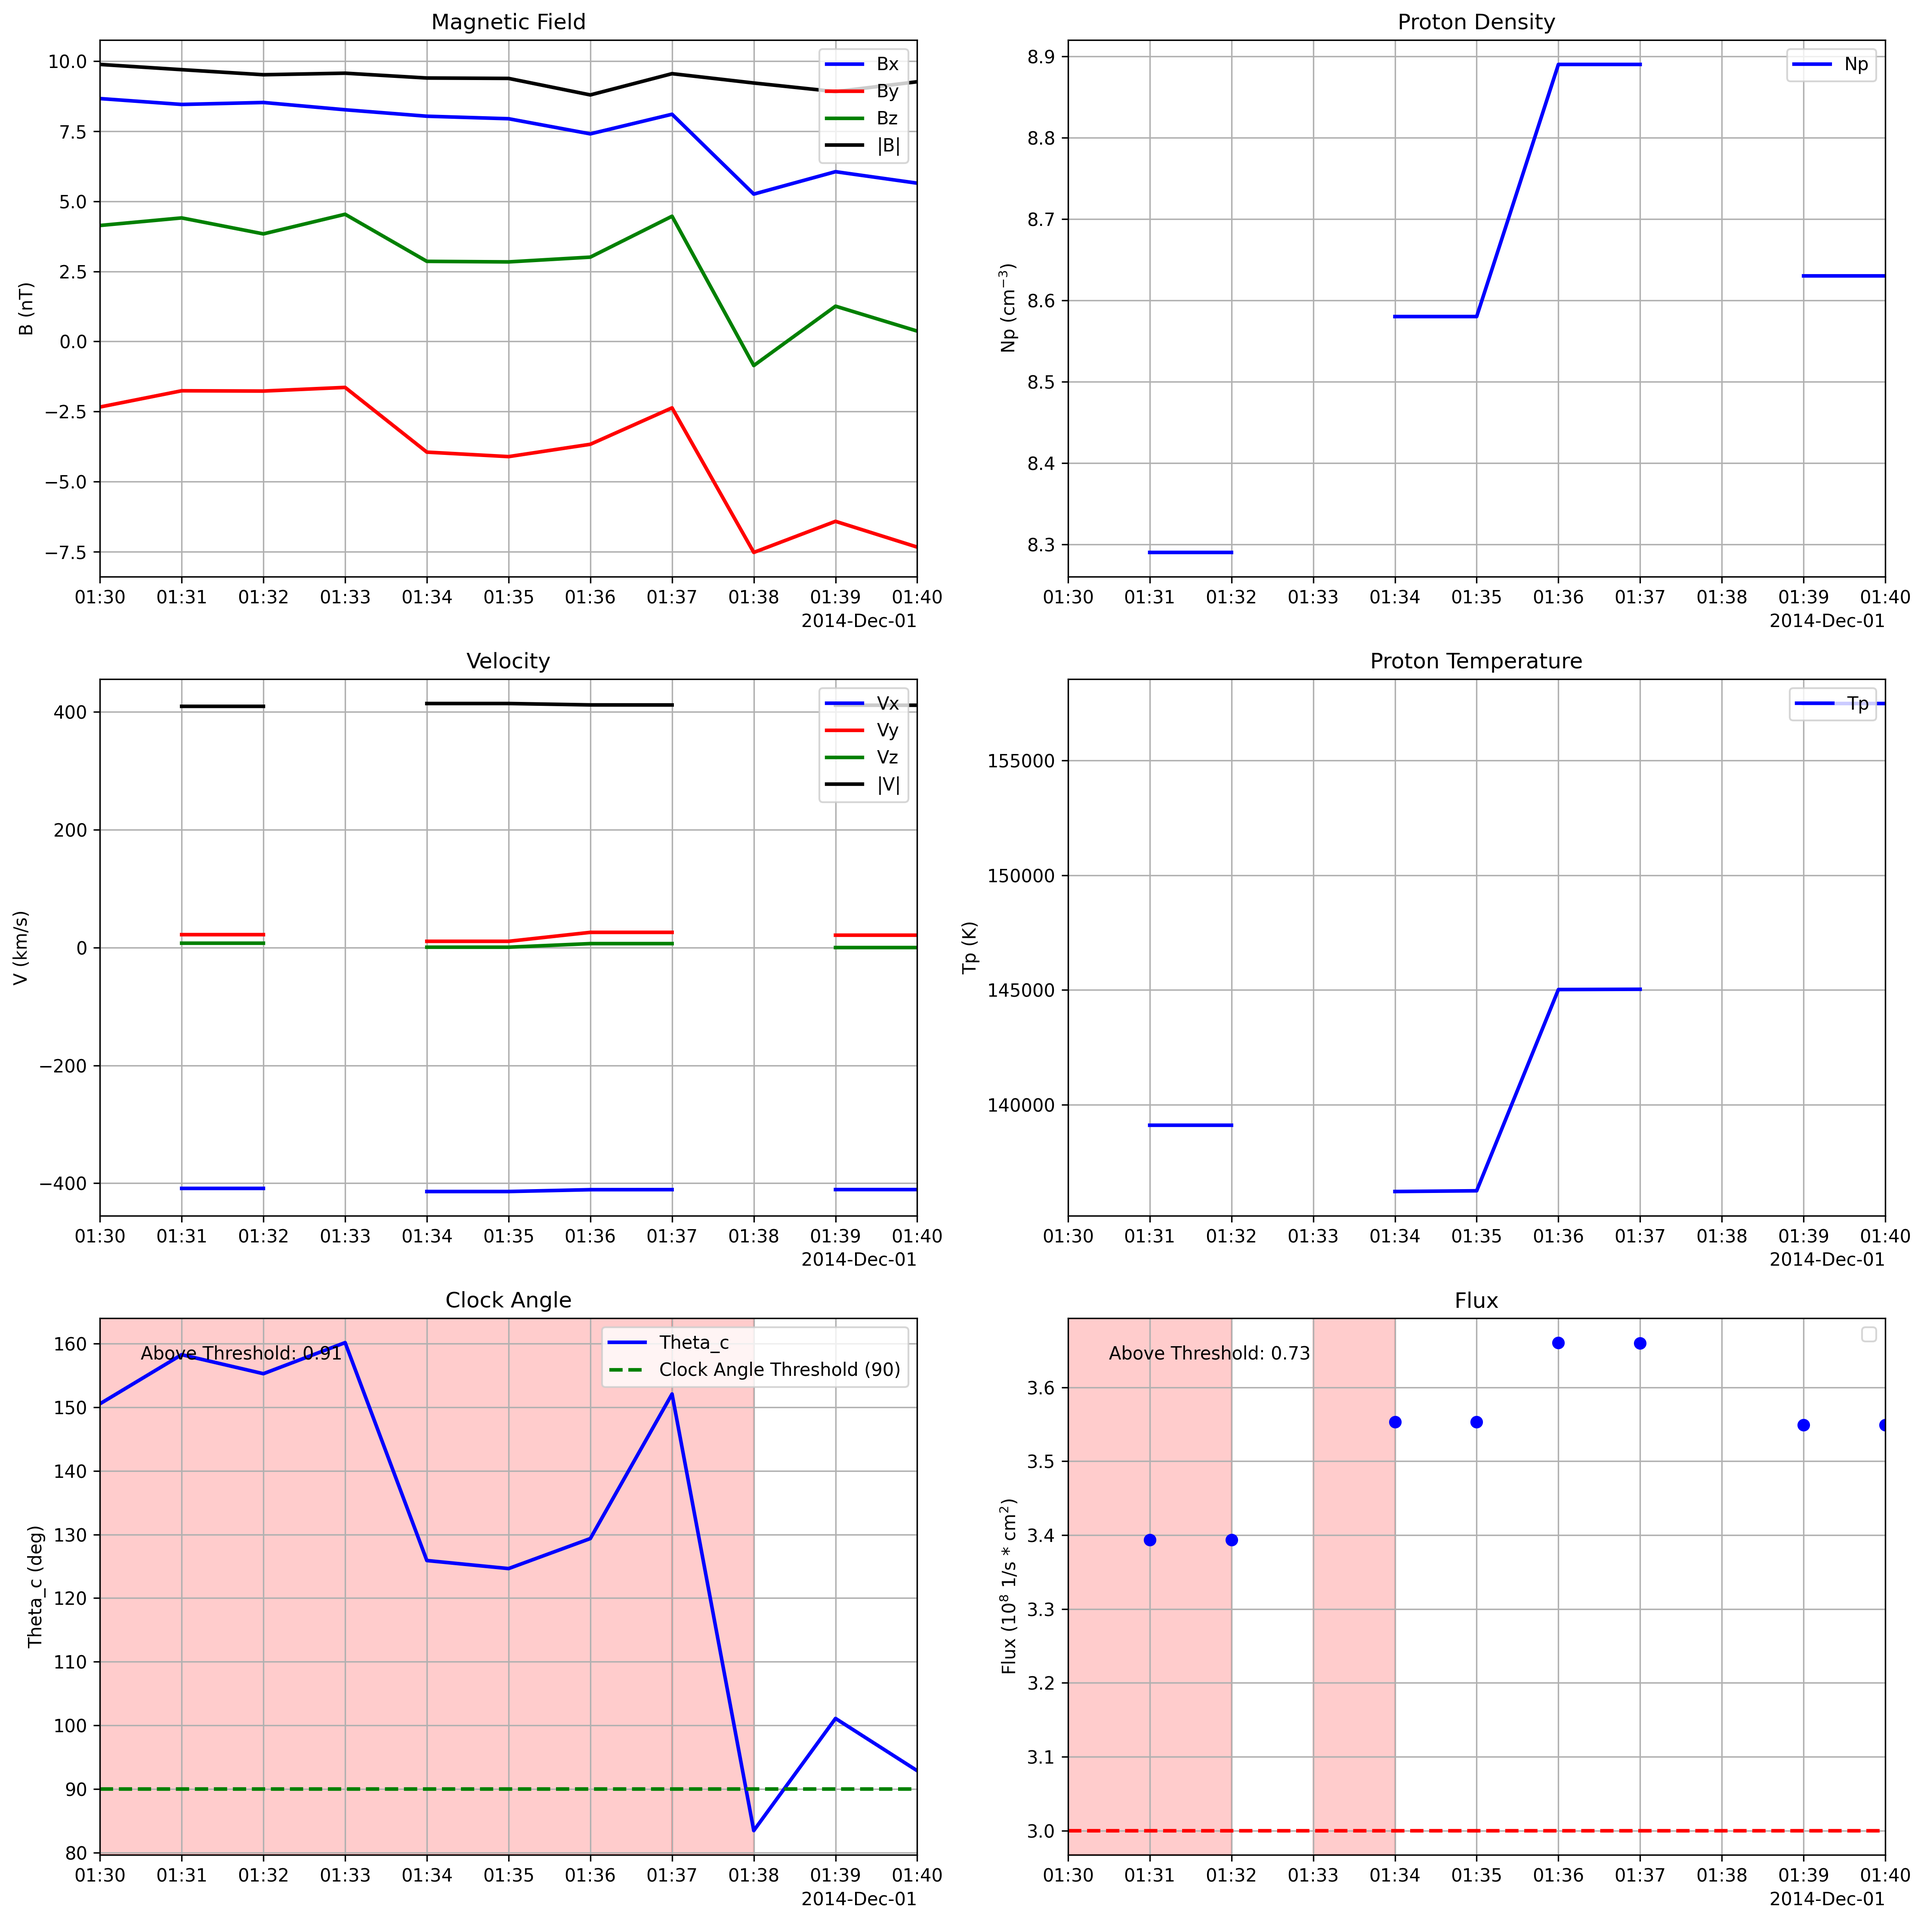
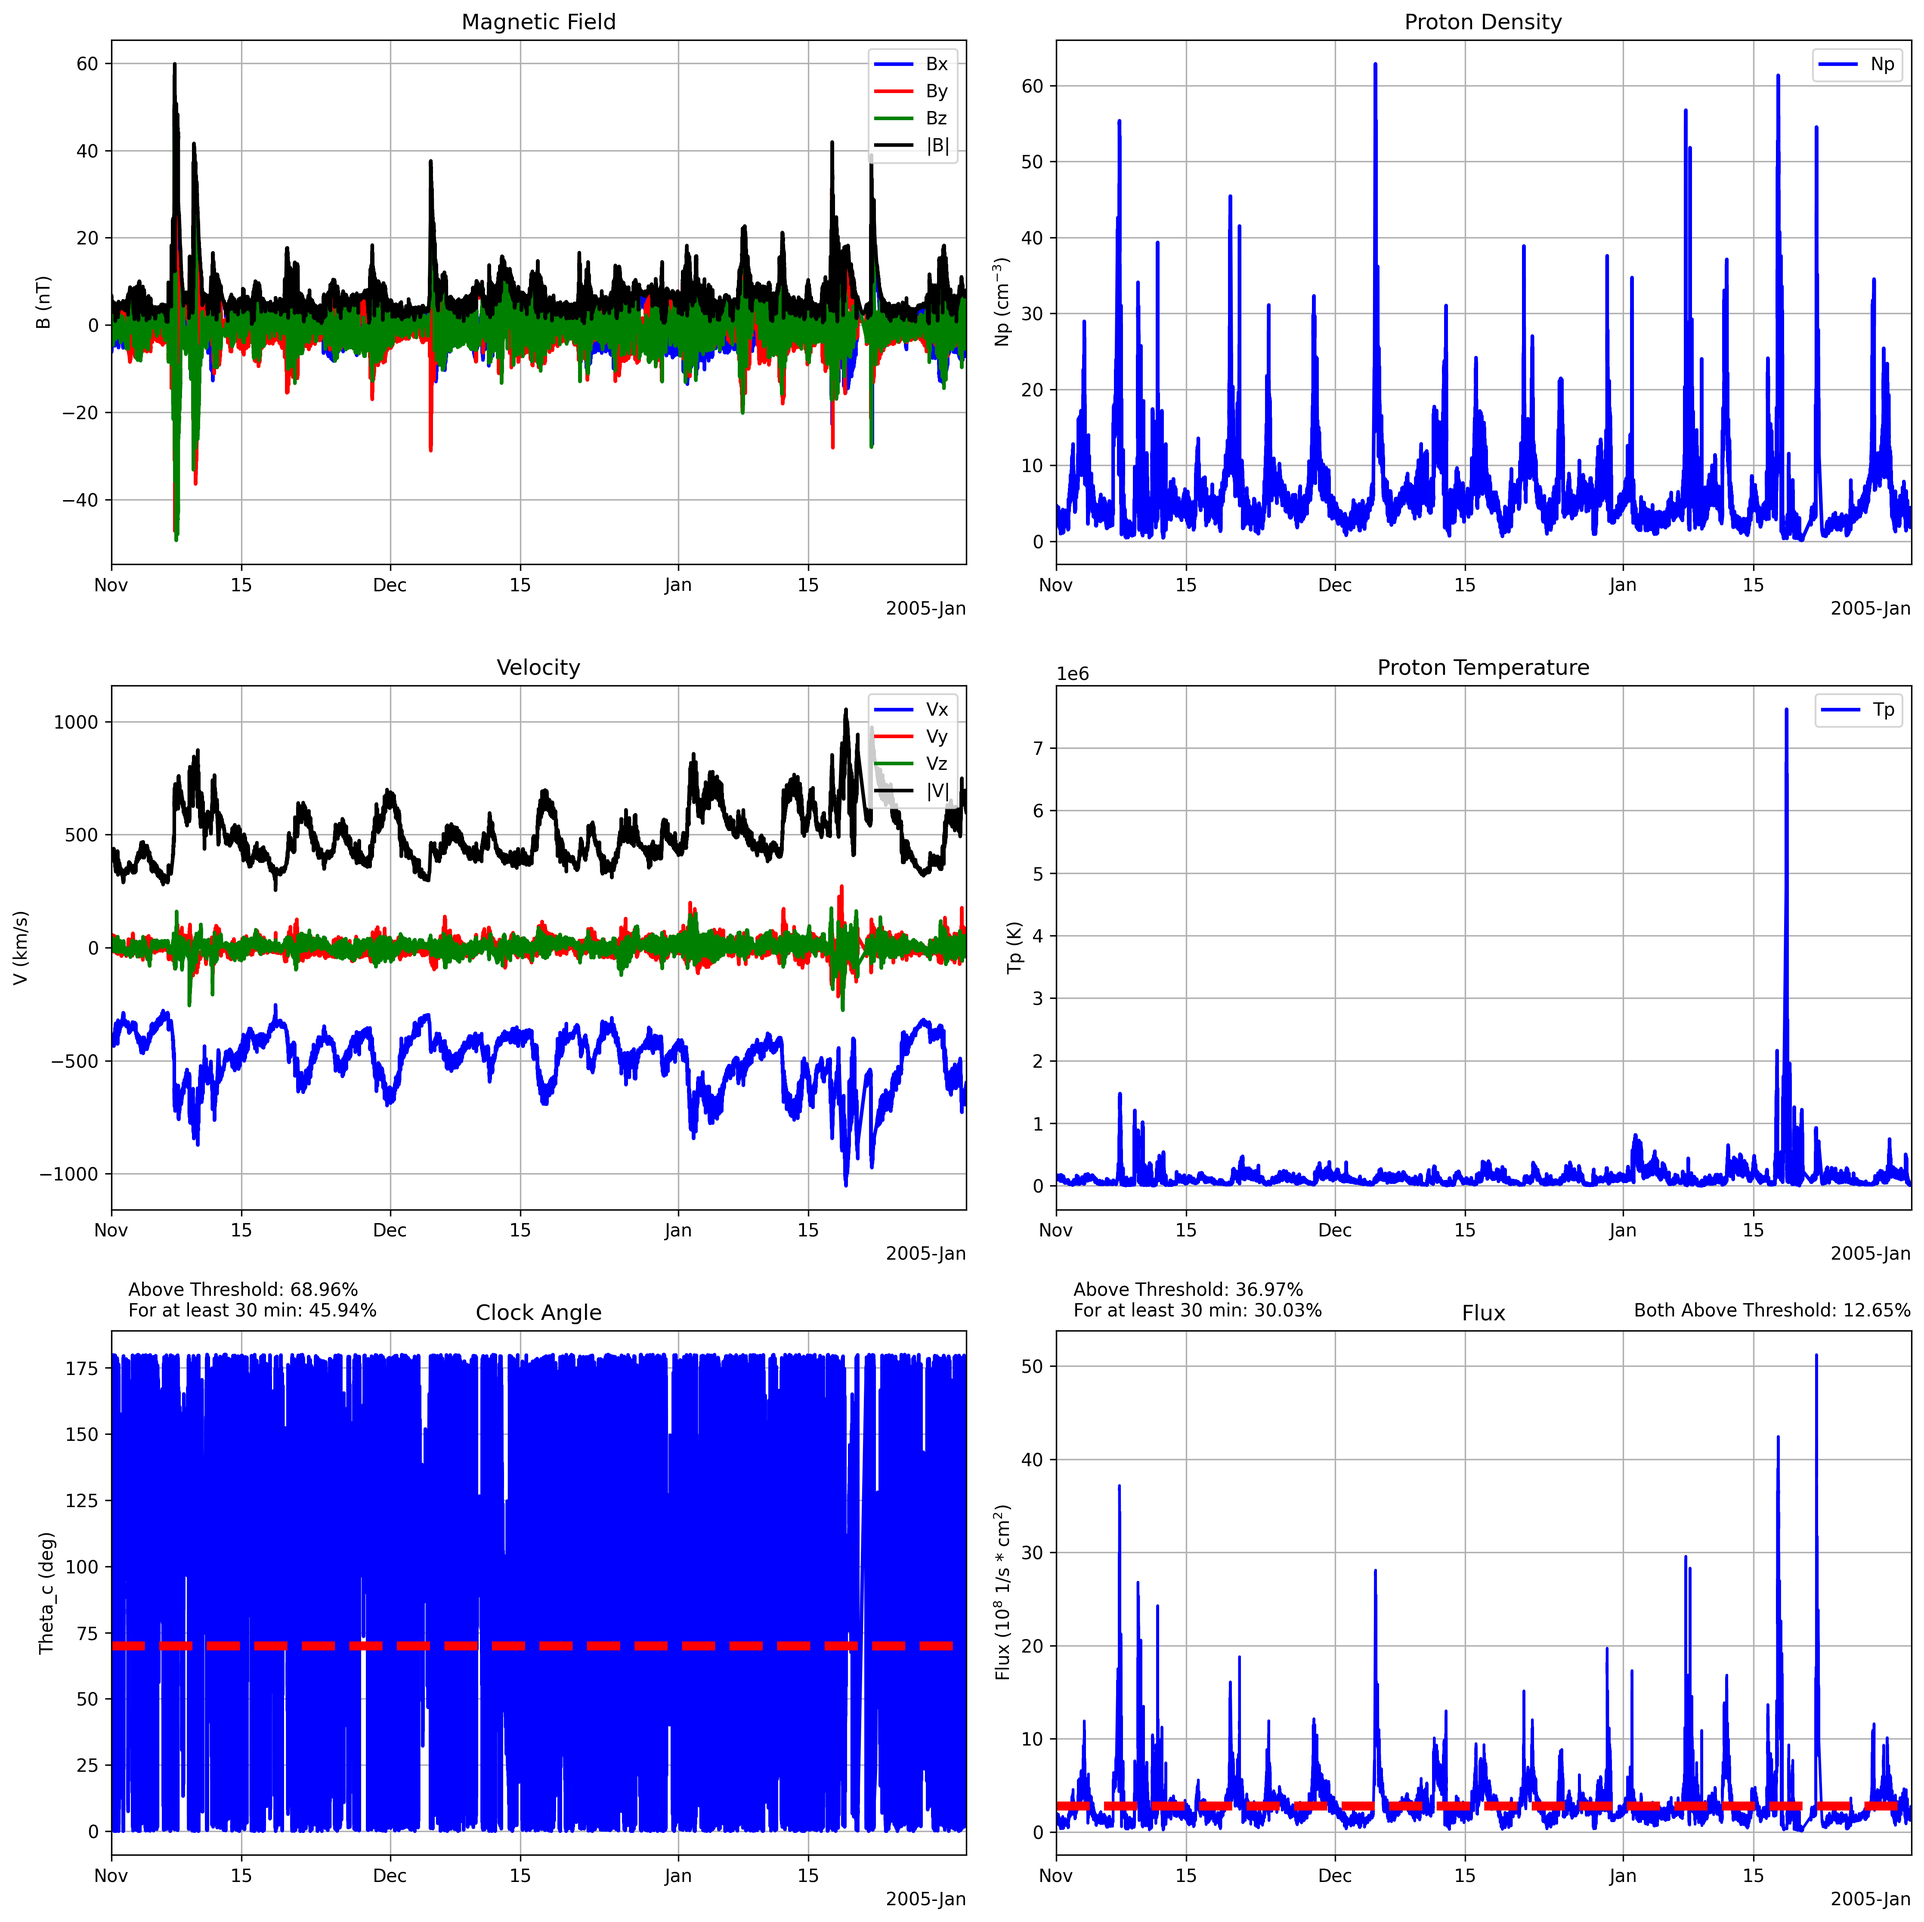
edits to code for 3 months period

diff --git a/codes/parameter_test.py b/codes/parameter_test.py
@@ -120,12 +120,12 @@ def get_sw_params(omni_level="hro", time_clip=True, trange=None, verbose=False):
     )  # in the units of 1e8 1/s * cm^2
 
     # For each column, interpolate the missing values using the previous and next values
-    # omni_df = omni_df.interpolate(method="time")
+    omni_df = omni_df.interpolate(method="time")
     return omni_df
 
 
-start_date_1day = "2014-12-01 01:30:00"
-end_date_1day = "2014-12-01 01:40:00"
+start_date_1day = "2004-11-01 00:00:00"
+end_date_1day = "2005-02-01 00:00:00"
 
 omni_df = get_sw_params(
     omni_level="hro",
@@ -135,15 +135,21 @@ omni_df = get_sw_params(
 )
 
 # Find the times when the solar wind flux is greater than 3e8 1/s * cm^2 for at least 0.5 hours
-flux_threshold = 3  # in units of 1e8 1/s * cm^2
-flux_threshold_time = 0.5  # in hours
+flux_threshold = 2.8  # in units of 1e8 1/s * cm^2
+flux_threshold_time = 30  # in minutes
+
+# Find the times when clock angle is more than 90 degrees for at least 0.5 hours
+clock_angle_threshold = 70  # in degrees
+clock_angle_threshold_time = 30  # in minutes
 
 # Create a boolean mask of the times when the flux is greater than the threshold
 omni_df["above_threshold_fx"] = omni_df["flux"] >= flux_threshold
 
 # Identify consecutive True values in the boolean mask
-consecutive_periods_fx = (omni_df["above_threshold_fx"] == False).cumsum()
-
+consecutive_periods_fx = (
+    omni_df["above_threshold_fx"] != omni_df["above_threshold_fx"].shift()
+).cumsum()
+# Find the
 # Calculate the duration of each consecutive period
 period_durations_fx = omni_df.groupby(consecutive_periods_fx)[
     "above_threshold_fx"
@@ -151,21 +157,19 @@ period_durations_fx = omni_df.groupby(consecutive_periods_fx)[
     "size"
 )  # in minutes
 
-# Filter for periods longer than 30 minutes
-long_periods_fx = period_durations_fx >= flux_threshold_time * 60  # in minutes
+# Filter for periods longer than 30 minutes and where the flux is greater than the threshold
+long_periods_fx = (period_durations_fx >= flux_threshold_time) & (
+    omni_df["flux"] >= flux_threshold
+)
 
-# Count the number of times the condition was satisfied for over 30 minutes
-count_long_periods_fx = long_periods_fx.sum()
-
-# Find the times when clock angle is more than 90 degrees for at least 0.5 hours
-clock_angle_threshold = 90  # in degrees
-clock_angle_threshold_time = 0.5  # in hours
 
 # Create a boolean mask of the times when the clock angle is greater than the threshold
 omni_df["above_threshold_ca"] = omni_df["theta_c"] >= clock_angle_threshold
 
 # Identoffy consecutive True values in the boolean mask
-consecutive_periods_ca = (omni_df["above_threshold_ca"] == False).cumsum()
+consecutive_periods_ca = (
+    omni_df["above_threshold_ca"] != omni_df["above_threshold_ca"].shift()
+).cumsum()
 
 # Calculate the duration of each consecutive period
 period_durations_ca = omni_df.groupby(consecutive_periods_ca)[
@@ -174,11 +178,27 @@ period_durations_ca = omni_df.groupby(consecutive_periods_ca)[
     "size"
 )  # in minutes
 
-# Filter for periods longer than 30 minutes
-long_periods_ca = period_durations_ca >= clock_angle_threshold_time * 60  # in minutes
-
+# Filter for periods longer than 30 minutes and where the clock angle is greater than the threshold
+long_periods_ca = (period_durations_ca >= clock_angle_threshold_time) & (
+    omni_df["theta_c"] >= clock_angle_threshold
+)
 # Count the number of times the condition was satisfied for over 30 minutes
 count_long_periods_ca = long_periods_ca.sum()
+
+
+long_periods_fx_ca = (
+    (period_durations_fx >= flux_threshold_time)
+    & (omni_df["flux"] >= flux_threshold)
+    & (period_durations_ca >= clock_angle_threshold_time)
+    & (omni_df["theta_c"] >= clock_angle_threshold)
+)
+
+long_periods_ca_fx = (
+    (period_durations_ca >= clock_angle_threshold_time)
+    & (omni_df["theta_c"] >= clock_angle_threshold)
+    & (period_durations_fx >= flux_threshold_time)
+    & (omni_df["flux"] >= flux_threshold)
+)
 
 # Plot the solar wind parameters
 fig, axs = plt.subplots(3, 2, figsize=(15, 15))
@@ -250,31 +270,15 @@ axs[1, 1].set_title("Proton Temperature")
 
 axs[1, 1].set_xlim([omni_df.index.values[0], omni_df.index.values[-1]])
 
-# Plot a horizontal bar of the length of period_durations for each period
-start_ind_ca = 0
-while start_ind_ca < len(period_durations_ca):
-    # Get the index of the next closest value where period_durations changes value
-    try:
-        next_ind_ca = np.where(
-            period_durations_ca[start_ind_ca:] != period_durations_ca[start_ind_ca]
-        )[0][0]
-    except Exception:
-        pass
-    axs[2, 0].axvspan(
-        period_durations_ca.index[start_ind_ca],
-        period_durations_ca.index[next_ind_ca - 1],
-        color="r",
-        alpha=0.2,
-    )
-    start_ind_ca = start_ind_ca + next_ind_ca
-    print(start_ind_ca)
 # On the plot, print the fraction of time the clock angle was above the threshold
+above_threshold_percent_ca = sum(omni_df.above_threshold_ca) * 100 / len(omni_df)
+for_atleast_30_min_ca = sum(long_periods_ca) * 100 / len(omni_df)
 axs[2, 0].text(
-    0.05,
-    0.95,
-    f"Above Threshold: {sum(omni_df.above_threshold_ca)/len(omni_df):.2f}",
+    0.02,
+    1.02,
+    f"Above Threshold: {above_threshold_percent_ca:.2f}%\nFor at least 30 min: {for_atleast_30_min_ca:.2f}%",
     horizontalalignment="left",
-    verticalalignment="top",
+    verticalalignment="bottom",
     transform=axs[2, 0].transAxes,
 )
 axs[2, 0].plot(
@@ -287,63 +291,54 @@ axs[2, 0].plot(
 # Make a horizontal line at the clock_angle_threshold
 axs[2, 0].axhline(
     clock_angle_threshold,
-    color="g",
+    color="r",
     linestyle="--",
     label=f"Clock Angle Threshold ({clock_angle_threshold})",
-    linewidth=2,
+    linewidth=5,
 )
 axs[2, 0].set_ylabel("Theta_c (deg)")
-axs[2, 0].legend(loc="upper right")
+# axs[2, 0].legend(loc="upper right")
 axs[2, 0].grid()
 axs[2, 0].set_title("Clock Angle")
 
 axs[2, 0].set_xlim([omni_df.index.values[0], omni_df.index.values[-1]])
 
-axs[2, 1].plot(omni_df.index.values, omni_df["flux"].values, "bo")
+axs[2, 1].plot(omni_df.index.values, omni_df["flux"].values, "b-")
 # Make a horizontal line at the flux_threshold
 axs[2, 1].axhline(
     flux_threshold,
     color="r",
     linestyle="--",
     # label=f"Flux Threshold ({flux_threshold})",
-    linewidth=2,
+    linewidth=5,
 )
 axs[2, 1].set_ylabel("Flux ($10^8$ 1/s * cm$^2$)")
-axs[2, 1].legend(loc="upper right")
+# axs[2, 1].legend(loc="upper right")
 axs[2, 1].grid()
 axs[2, 1].set_title("Flux")
 
 axs[2, 1].set_xlim([omni_df.index.values[0], omni_df.index.values[-1]])
 
-# Plot a horizontal bar of the length of period_durations for each period
-start_ind_fx = 0
-while start_ind_fx < len(period_durations_fx):
-    # Get the index of the next closest value where period_durations chnages value
-    try:
-        next_ind_fx = np.where(
-            period_durations_fx[start_ind_fx:] != period_durations_fx[start_ind_fx]
-        )[0][0]
-        axs[2, 1].axvspan(
-            period_durations_fx.index[start_ind_fx],
-            period_durations_fx.index[next_ind_fx - 1],
-            color="r",
-            alpha=0.2,
-        )
-        start_ind_fx = start_ind_fx + next_ind_fx
-
-    except Exception:
-        break
-
 # On the plot, print the fraction of time the flux was above the threshold
+above_threshold_percent_fx = sum(omni_df.above_threshold_fx) * 100 / len(omni_df)
+for_atleast_30_min_fx = sum(long_periods_fx) * 100 / len(omni_df)
 axs[2, 1].text(
-    0.05,
-    0.95,
-    f"Above Threshold: {sum(omni_df.above_threshold_fx)/len(omni_df):.2f}",
+    0.02,
+    1.02,
+    f"Above Threshold: {above_threshold_percent_fx:.2f}%\nFor at least 30 min: {for_atleast_30_min_fx:.2f}%",
     horizontalalignment="left",
-    verticalalignment="top",
+    verticalalignment="bottom",
     transform=axs[2, 1].transAxes,
 )
 
+axs[2, 1].text(
+    1.00,
+    1.02,
+    f"Both Above Threshold: {sum(long_periods_fx_ca) * 100 / len(omni_df):.2f}%",
+    horizontalalignment="right",
+    verticalalignment="bottom",
+    transform=axs[2, 1].transAxes,
+)
 # axs[2, 1].bar(
 #     omni_df.index.values,
 #     period_durations,
